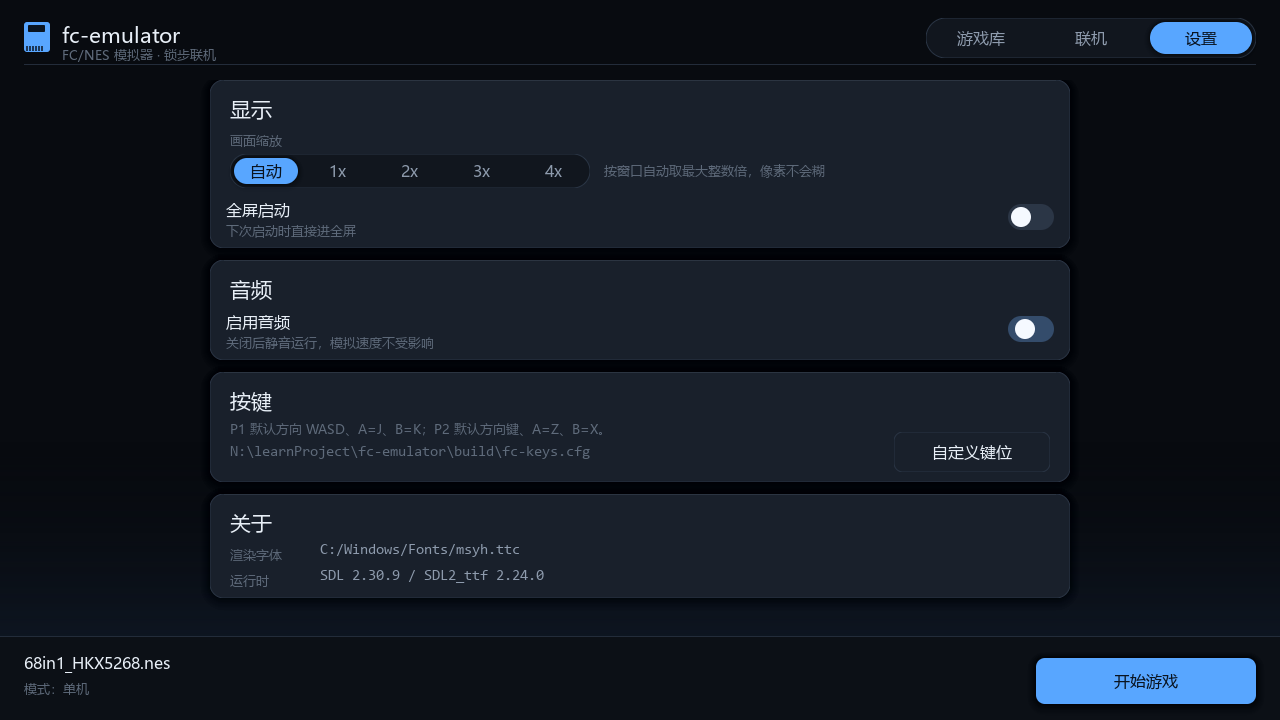
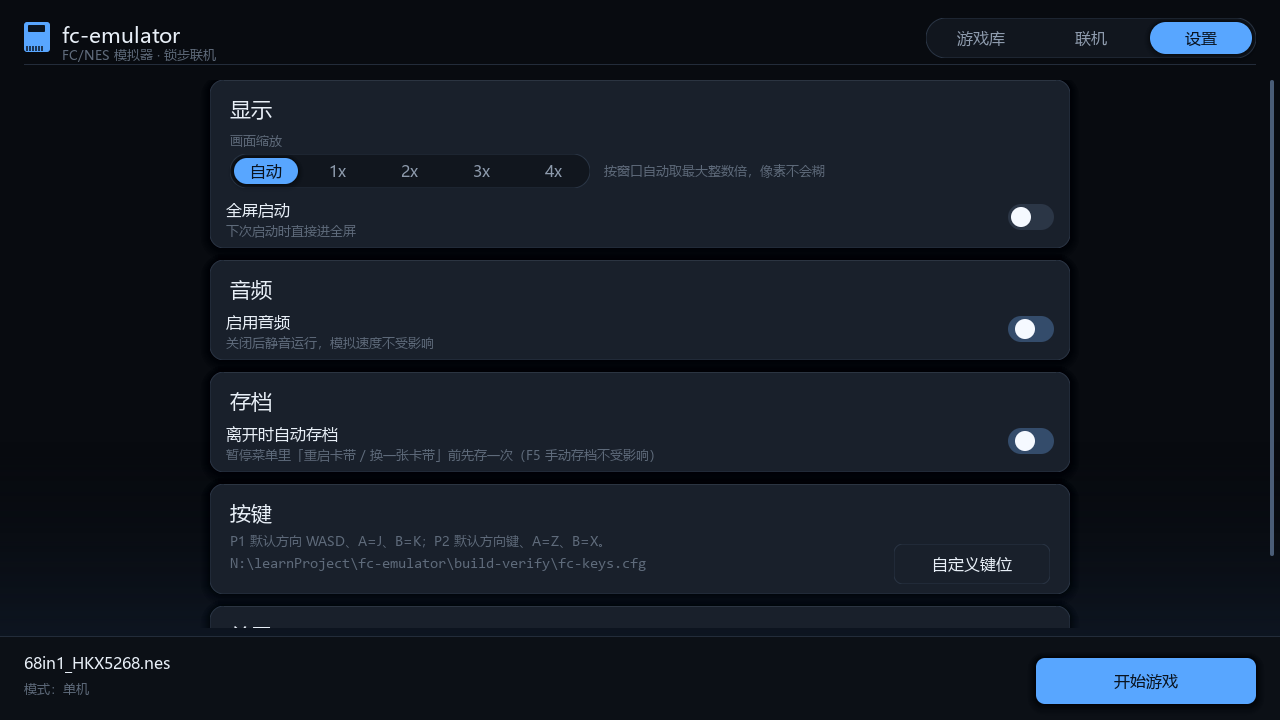
[docs]: 更新 README 与截图，新增联机功能说明及自测选项
更新 README 文档，新增 --menu-click、--auto-start 等自测选项说明，补充暂停菜单的重启卡带、换卡带功能，完善联机读档、重启卡带的同步协议说明及启动器存档开关的细节；新增联机暂停菜单截图，更新已有截图，使文档与功能实现保持一致。

Changed region(s): [[0.1562, 0.55, 0.8438, 0.8556], [0.7188, 0.7639, 0.7812, 0.7944]]

diff --git a/README.md b/README.md
@@ -251,9 +251,19 @@ fc-emulator roms/your-game.nes --relay 1.2.3.4:7777 --room 8848 --connect
 --shot <界面> <文件.ppm> 开发者自测：离屏渲染某个界面并存图后退出
                         界面取值 launcher | netplay | settings | keys | pause
                         （界面全是像素级细节，靠读代码判断不了对错，必须能一键出图比对）
---ui-click <x>,<y>      配合 --shot：在该点注入一次合成点击。可重复给多次，按顺序各占一帧
---cfg-set <键>=<值>     配合 --shot：仅本次运行覆盖启动器配置，不写回文件。可重复给多次
---fps-log <帧数>        开发者自测：跑满 N 帧后打印实测帧率并退出（验证单机/联机节拍是否一致）
+--ui-click <x>,<y>      注入合成点击（可重复给多次，按顺序各占一帧）：
+                        配 --shot 时喂给离屏预览；不给 --shot 时喂给第一次进启动器的实跑循环
+--menu-click <x>,<y>    进游戏后自动打开暂停菜单，并在第 4 帧往该点注入一次点击
+--auto-start            回到列表后的启动器不等点击直接开跑（配 --menu-click 跑通整条回路）
+--cfg-set <键>=<值>     仅本次运行覆盖启动器配置，不写回文件。可重复给多次
+--fps-log <帧数>        开发者自测：跑到第 N 个模拟帧后打印实测帧率与状态哈希并退出
+                        （按模拟器自身帧号计，联机两端给同一个 N 即可逐位比对哈希）
+--save-state <文件>     配合 --fps-log：退出前把当前状态存成 .fcstate（做联调素材档）
+--sync-state <文件>     开发者自测：联机中在第 --sync-at 帧自动「读档并同步给对方」，
+                        用来无人值守地验证联机存档同步（见「存档 / 读档」）
+--sync-at <帧数>        触发 --sync-state 的时机（按循环轮次计），默认 120
+--reset-cart-at <轮次>  开发者自测：联机中到第 N 轮自动「重启卡带」并同步给对方
+                        （0=不触发；验证联机重启路径，配合 --fps-log 比对哈希）
 --help                  显示帮助
 ```
 
@@ -302,6 +312,42 @@ build/fc-emulator.exe --shot netplay slide.ppm --cfg-set net=1 --ui-click 800,59
 
 > 上面两条命令在修复前后各跑一次，前者退出码从 139（`std::bad_alloc` / SIGSEGV）变成 0、
 > 界面确实走进了目标目录；后者滑杆确实从 3 帧变 24 帧。这就是它们的回归用例。
+
+##### `--menu-click` / `--auto-start`：跑通「游戏 → 菜单 → 返回列表 → 再进游戏」
+
+暂停菜单里的动作只在「点下去那一帧」发生，正常路径下没法无人值守地验证。
+`--menu-click` 先替你把菜单按开，隔两帧再补一次合成按下；`--auto-start` 让回到列表后的
+启动器不等点击直接开跑，于是一整条回路能用一条命令跑完：
+
+```bash
+build/fc-emulator.exe game.nes --fps-log 150 \
+    --menu-click 640,465 --auto-start
+```
+
+成功时会依次看到（这几行就是断言的依据）：
+
+```
+[存档] 返回列表前已自动存档: 260562 字节 -> game.nes.fcstate
+返回游戏列表。
+=== fc-emulator 启动器 ===
+[启动器] 已自动存档，再选同一张卡带可接着玩
+=== fc-emulator ===
+读档    : game.nes.fcstate（从第 0 帧继续）
+实测帧率 : 150 帧 / 2.495 秒 = 60.13 FPS（单机）
+```
+
+> `--menu-click` 的注入是**跨回合只做一次**的。这一点踩过坑：钩子的状态变量一开始被我放在
+> 回合内，于是每个回合都重新点一次「返回游戏列表」，程序在「列表 ↔ 游戏」之间绕了 28 个来回
+> 才被 `--fps-log` 收住。放进外层循环之外才是「只注入一次」。
+
+`--ui-click` 现在也能喂给**启动器的实跑循环**（不给 `--shot` 时），所以「点 A 卡带 → 再点
+B 卡带」这类多步操作同样可复现：
+
+```bash
+build/fc-emulator.exe --cfg-set rom=<绝对路径>\a.nes --cfg-set loadState=<绝对路径>\a.nes.fcstate \
+    --ui-click 200,220 --auto-start --fps-log 5
+# 220 是列表第 2 行的中心（行高 58，首行中心约 162）
+```
 
 `--relay` 必须与 `--host`（坐 1P）或 `--connect`（坐 2P）之一同时使用，它只改变
 「包怎么走」，不改变座位。中继模式下两端填的是**中继服务器的地址**，
@@ -375,19 +421,79 @@ P1.SELECT=Right Shift   # scancode 229
 
 ![暂停菜单](docs/screenshots/pause-menu.png)
 
-继续 / 存档 / 读档 / 自定义键位 / 切换全屏 / 切换缩放 / 退出，每一项都带快捷键提示。
+继续 / 存档 / 读档 / 自定义键位 / 切换全屏 / 切换缩放 / **重启卡带** / **换一张卡带** / 退出，
+每一项都带快捷键提示。
 **单机时它会真正暂停模拟**；**联机时它只是一层叠加层，模拟照常推进** ——
 锁步一旦停住，对端会一直等这一帧直到超时。所以联机下面板靠右摆放、遮罩很轻，
-让你还能看见左半边的游戏画面，同时「读档」「键位」两项被明确置灰。
+让你还能看见左半边的游戏画面，同时「键位设置」一项被明确置灰
+（「读取存档」「重启卡带」「换一张卡带」在联机里都**可用** —— 前两者把状态同步给对方，
+最后一个是干净断开、两边回列表各自重选，见「存档 / 读档」与下一节）。
+
+![联机中的暂停菜单](docs/screenshots/pause-menu-netplay.png)
 
 > 这不是偷懒的实现细节，而是联机语义的要求：在联机里做「真暂停」等于把对端卡死。
+
+#### 「重启卡带」与「换一张卡带」：两种"列表"是两回事
+
+多合一卡带（比如 68 合 1）开机后自带一个**卡带内的游戏选择菜单** —— 想玩同一张卡带里的
+另一个游戏，不需要退出程序：
+
+- **重启卡带**：等价于在真机上按一次 Reset。模拟器回到这张卡带的开机画面，
+  卡带内置菜单自然就回来了。现场（窗口、手柄、键位）全部保留。
+  受「离开时自动存档」控制：默认会先把当前进度存进 `<rom>.fcstate` 再重启，
+  关掉这个开关则直接放弃。**联机中同样可用**，见下。
+- **换一张卡带**：退回启动器的游戏库，重新挑一个 `.nes` 文件。界面、窗口、手柄、
+  键位配置全都留着，只有「这一局」被收掉。
+
+换卡带默认会**先自动存一次档**再走：
+
+```
+[存档] 返回列表前已自动存档: 260562 字节 -> game.nes.fcstate
+```
+
+存档只是把状态读出来写盘、不改变模拟，所以这一步永远是安全的。回到列表后：
+
+- 那句提示会挂在启动器上（同时打进日志），并顺手把「启动时载入存档」拨到刚存下的档上 ——
+  **再选同一张卡带就是接着玩**，不会从开机画面重来；
+- 选了**别的**卡带时，这个开关会被自动清掉（`pickRom` 里那句 `if (switched)`），不会拿
+  A 的档去读 B；
+- 按 `Esc` / 关窗口从启动器退出，则整个程序结束。
+
+**不想让它自动存？** 设置页 → 存档 → 「**离开时自动存档**」关掉即可（写在
+`fc-launcher.cfg` 的 `autoSave` 键）。关掉后换卡带既不存档、也不拨「启动时载入存档」，
+直接放弃现场 —— 适合「我就是想随便看看另一张卡带」的场景。`F5` 手动存档不受这个开关影响。
+
+> **联机中的「重启卡带」**：和「读取存档」走同一套同步协议，但传的不是某次 F5 的档，
+> 而是**本机刚 reset 出来的那份「第 0 帧」快照** —— 两端一起装上，就等于同时按了 Reset，
+> 卡带菜单一起回来。实现上有个容易漏掉的细节：发起方**不能先真的跳过去**再传，
+> 否则传输一失败，本机已经在新时间线、对端还在旧时间线，这次失败的同步就变成
+> 一次不可逆的不同步。所以顺序是「存下当前状态 → reset → 取出快照 → 立刻把当前状态
+> 装回来」，整段传输期间本机和对端都停在原地；成功则两端一起跳，失败则两端哪儿都没去。
+> 实测：同步后两端各跑 1200 帧，状态哈希逐位相同、零不同步告警。
+> 自测钩子：`--reset-cart-at <轮次>`（联机中到点自动重启并同步）。
+
+> **联机中的「换一张卡带」**：走"干净断开、各自重选"的路子 —— 没有做「两端一起换」的
+> 协议，因为对端机器上未必有你想换的那份 ROM 文件。菜单里按下后会**先按「离开时自动存档」
+> 存一次档**，然后断开联机（断开包带上了「我去换卡带了」的原因），**对端收到后也会跟着
+> 回启动器**，不会傻乎乎地停在单机画面上；两边各自挑好卡带再重新开始联机。
+> 注意联机换卡带**不会**替你拨「启动时载入存档」—— 那会让本机开局带档、对方不带，
+> 重连后必然不同步。存档已写盘，之后单机玩可以自己 `F8` 读。
+>
+> **重连时的兜底：握手会校验卡带指纹。** 两端互发 ROM 文件指纹（FNV-1a 64），
+> 选了不同的卡带当场报「两端的卡带不是同一份 ROM（文件指纹不符）」并拒绝建立会话 ——
+> 而不是开局后冒出一句没头没脑的「检测到状态不同步」。
+
+实现上它没有把整段启动流程拆成函数（那会牵动 win/ren/ui/cfg/emu 一大摊上下文），
+而是在 `main.cpp` 里套了一层**回合循环**：每绕一圈 = 一个完整回合（挑卡带 → 跑游戏），
+句柄（联机会话、音频设备、纹理、手柄）声明在回合外、在回合末尾统一释放。
+漏关一个音频设备不会报错，只会让你听到两层声音叠在一起。
 
 ### 存档 / 读档
 
 | 快捷键 | 功能 |
 |---|---|
 | `F5` | 存档到 `<rom>.fcstate` |
-| `F8` | 从存档读取 |
+| `F8` | 从存档读取（联机中会自动把这份档同步给对端，双方一起装上） |
 | `F11` | 切换全屏 |
 | `Tab` | 按住加速（仅单机） |
 | `Esc` / `F1` | 暂停菜单（退出请从菜单里选「退出」，或直接关窗口） |
@@ -397,16 +503,45 @@ P1.SELECT=Right Shift   # scancode 229
 | | 存档 `F5` | 读档 `F8` |
 |---|---|---|
 | 单机 | ✅ 可用 | ✅ 可用 |
-| 联机 | ✅ 可用（只是把本机状态读出来写盘，不改变模拟） | ❌ **禁用**，会打印原因 |
+| 联机 | ✅ 可用（只是把本机状态读出来写盘，不改变模拟） | ✅ 可用 —— **自动把档同步给对端**，双方一起装上 |
 
-**联机中为什么禁止读档**：锁步同步的前提是「两端在同一帧上状态逐位一致」。
+**联机中读档为什么不许"各读各的"**：锁步同步的前提是「两端在同一帧上状态逐位一致」。
 单方面读档会让本机状态瞬间跳到另一条时间线，而对端无法跟着跳，
-从此每帧都对不上，且没有任何办法自行收敛。所以直接拦住，
-而不是让它去触发一次「不同步」告警。
+从此每帧都对不上，且没有任何办法自行收敛。
+所以联机里按 `F8`（或菜单里的「读取存档」）走的是一整套**存档同步协议**：
 
-#### 想「从某个进度接着联机」：用 `--load-state`
+1. 发起方把 `.fcstate`（约 260KB）切成 1KB 的块，滑动窗口 + 位图回执 + CRC32 校验地传给对端；
+2. 传输期间**两端都停帧**（界面上有进度条）—— 谁先跑起来，谁的状态就和对方不一样了；
+3. 收齐且校验通过后，发起方先把输入采样序号**归零换代**，再通知对端装档；
+   两端都装上同一份档后，从同一帧、同一条时间线继续锁步。
 
-既然联机中不能读档，那想从存档继续联机就得**开局就带着档**：
+UDP 会丢包，所以这套协议按「不可靠信道上的可靠传输」来写：窗口内哪块丢了就重发哪块，
+收齐的判定只认 CRC32，握手包（GO / DONE）丢了会低频重发。
+发起方与接收方两个方向都验证过：跑 1200 帧后两端的状态哈希逐位相同，
+中途没有任何「不同步」告警。
+
+> 读档失败会明确提示（例如档与当前 ROM 不匹配），不会静默装上一份坏档。
+
+#### 启动器里的「启动时载入存档」开关
+
+游戏库详情卡上那个开关，作用就是替你带上 `--load-state`：打开它，下次从启动器开始
+这张卡带时会直接从该存档继续。单机、联机都生效，而且是**粘性**的 ——
+跟着其它设置一起写进 `fc-launcher.cfg`，换卡带时自动关闭。
+
+> 它曾经在单机下**完全失效**：启动器退出时会无条件清掉 `loadState`，于是界面写着
+> 「启动时会从这个存档继续」，点开始游戏却永远从开机状态起跑 ——
+> 「返回游戏列表」的自动存档也因此形同虚设。现在按界面写的那样生效了。
+>
+> 另一道防线：配置里指向的存档文件如果已经不在磁盘上（在外面删了、跟着卡带走），
+> 启动器会在进界面时清掉这个开关并打印一行说明，而不是留给主流程去弹错误框。
+
+#### 想「从某个进度接着联机」：两种办法
+
+**办法一（推荐）：联机中直接读档。** 上次联机玩到某处时按过 `F5`，这次开房连上之后，
+**任何一方**按 `F8`（或暂停菜单里的「读取存档」），本机的 `<rom>.fcstate` 就会自动
+同步给对端 —— 不用微信传文件、不用对路径，双方从那一刻接着玩（协议见上节）。
+
+**办法二：开局就带着档（`--load-state`）。** 想让双方一连接上就直接从存档起跑：
 
 ```bash
 # 1. 联机玩到某处，其中一方按 F5，得到 <rom>.fcstate（例如 game.nes.fcstate）
@@ -434,11 +569,11 @@ fc-emulator game.nes --load-state resume.fcstate --connect <对方IP>
 > 恰好从未被执行，状态哈希会一直相同（实测翻转一字节跑 6000 帧都没被发现）；
 > 现在这种差异在**第 0 帧**就会被抓到。
 
-> **那能不能做成「联机中直接读档」？** 可以，但不是放开一个判断那么简单，需要一整套协调协议：
-> 双方协商一个目标帧做**同帧屏障** → 把 `.fcstate`（约 260KB）分包传给对端或约定双方本地同档 →
-> 读档后**重基线帧计数**（输入缓冲、延迟槽位全部要跟着重排）→ 再校验读档后第一帧的哈希一致。
-> 成本比这套 `--load-state` 高一个量级，而 `--load-state` 已经覆盖了绝大多数真实需求
-> （「从某个进度接着打」只需要在开局前带上档，不需要在游戏中随时跳）。
+> **「联机中直接读档」是怎么落地的**：正是上面设想的这套流程 —— 分块传输 + CRC 校验 +
+> 双方停帧 + 读档后把输入采样序号**归零换代**（旧代次的在途包整批作废，不会污染新时间线）。
+> 实测两端跑 1200 帧后状态哈希逐位相同、零不同步告警；主动同步方与被动接收方
+> 两个方向都各自验证过。这套自测有专门的钩子：`--sync-state <档> --sync-at <帧>`
+> 会在联机中到点自动发起一次同步，配合 `--fps-log <N>` 比对两端打印的状态哈希。
 
 存档的正确性有自动化验证：`tools/test_savestate.cpp` 会把第 200 帧的状态写盘、
 **换一个进程**读回来再跑到第 300 帧，要求沿途每个检查点的状态哈希与「没读档、一路跑下来」
@@ -843,14 +978,15 @@ diff <(grep 哈希@ h.log) <(grep 哈希@ c.log)      # 无输出 = 完全一致
 - **联机中不能打开 F2 键位界面**：设置界面会暂停本机推进帧，锁步下对端会一直等这一帧，
   所以只在单机时开放。**但改文件是可以的** —— 运行中编辑 `fc-keys.cfg` 保存，
   约 1 秒内热加载生效，联机中也一样（键位是纯本地映射，不影响同步）。
-- **联机中禁止读档（F8）**：锁步要求两端逐帧一致，单方面读档必然分叉且无法自行收敛。
-  存档（F5）在联机中仍可用，但那份档只能在**下一次开局时**用 `--load-state` 带进来。
-  换句话说，「联机中途换档」在锁步下没有正确的实现方式：读档会让本机瞬间跳到另一条
-  时间线，对端无法跟着跳，从此每帧都对不上、且没有任何机制能自行收敛。
-  要换档就得**重开一局**（从暂停菜单退出对局，再带 `--load-state` 开一次，
-  或在启动器 → 游戏库 里勾「启动时载入存档」然后重新开始）。
-  想要真正的「联机中读档」，需要双方协商同帧屏障 + 状态传输 + 帧计数重基线，
-  参见「存档 / 读档」一节。
+- **联机中读档 / 重启卡带走自动同步，不是"各读各的"**：单方面跳状态会让本机瞬间跳到
+  另一条时间线，对端无法跟着跳，从此每帧都对不上。所以联机里的 `F8` /「读取存档」/
+  「重启卡带」会把要落到的那份状态**通过分块传输 + CRC 校验自动同步给对端**，
+  双方停帧装档后从同一帧继续（见「存档 / 读档」）。
+  传输期间两端都不能推进模拟，大档 + 高丢包网络下这段停顿会明显一些。
+- **联机中「换一张卡带」= 干净断开 + 各自重选**：没有「两端一起换 ROM」的协议
+  （对端机器上未必有那份文件），按下后先自动存档、断开联机，**对端也会跟着回启动器**，
+  两边各自挑好卡带再重新连。重连时握手会校验两端 ROM 指纹，选了不同的卡带当场报错。
+  「重启卡带」则真正做到了两端一起跳（同步「刚开机」的快照），见「存档 / 读档」。
 - **状态格式已升级到 `FCN2`**：快照里多了 ROM 指纹，旧的 `FCN1` 存档不再兼容
   （读取时会明确提示，重新存一次即可）。
 - **`--fps-log` 统计的是「已模拟帧数 / 墙钟时间」**，所以按 `Tab` 加速（单机）时
